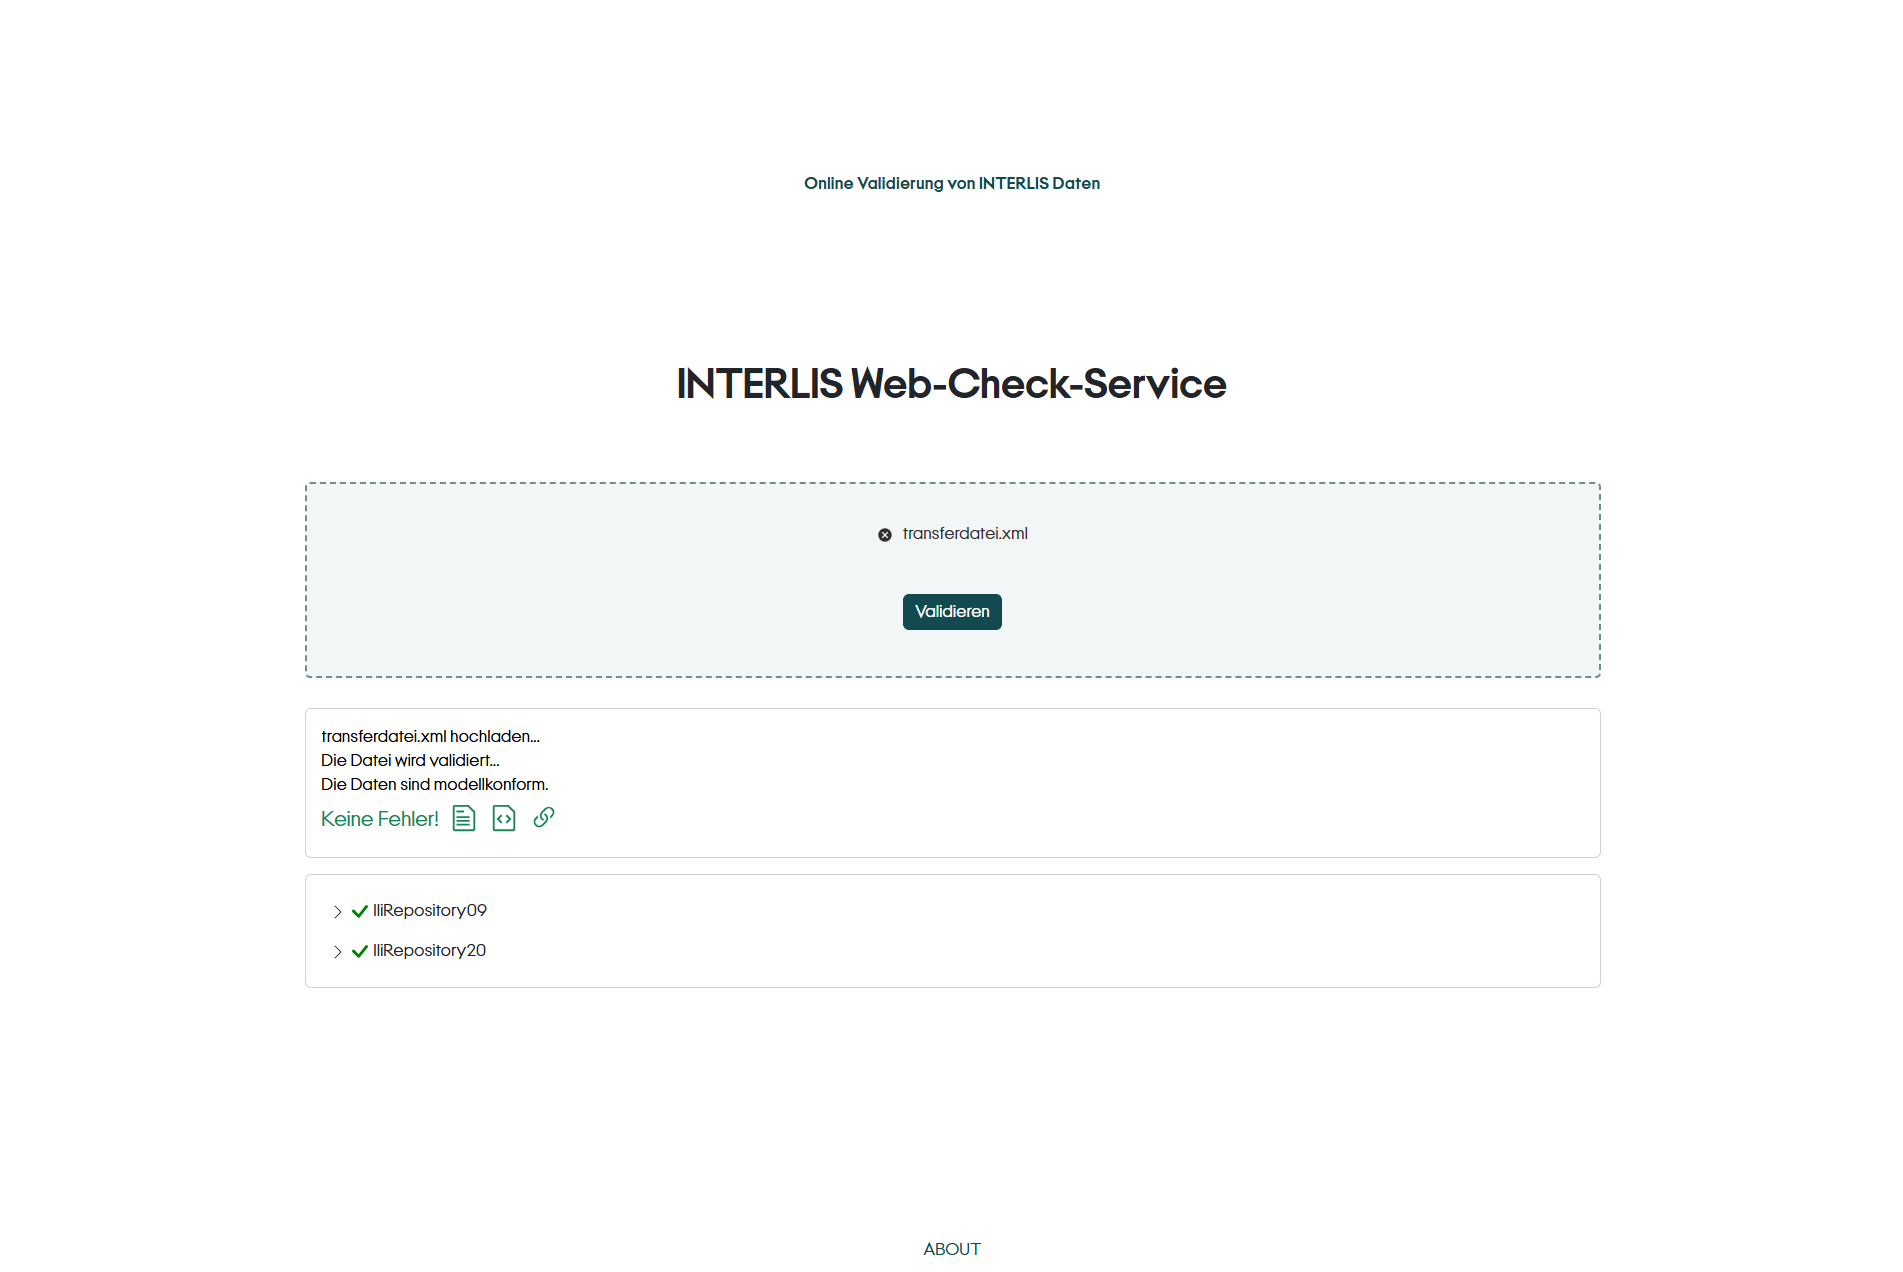
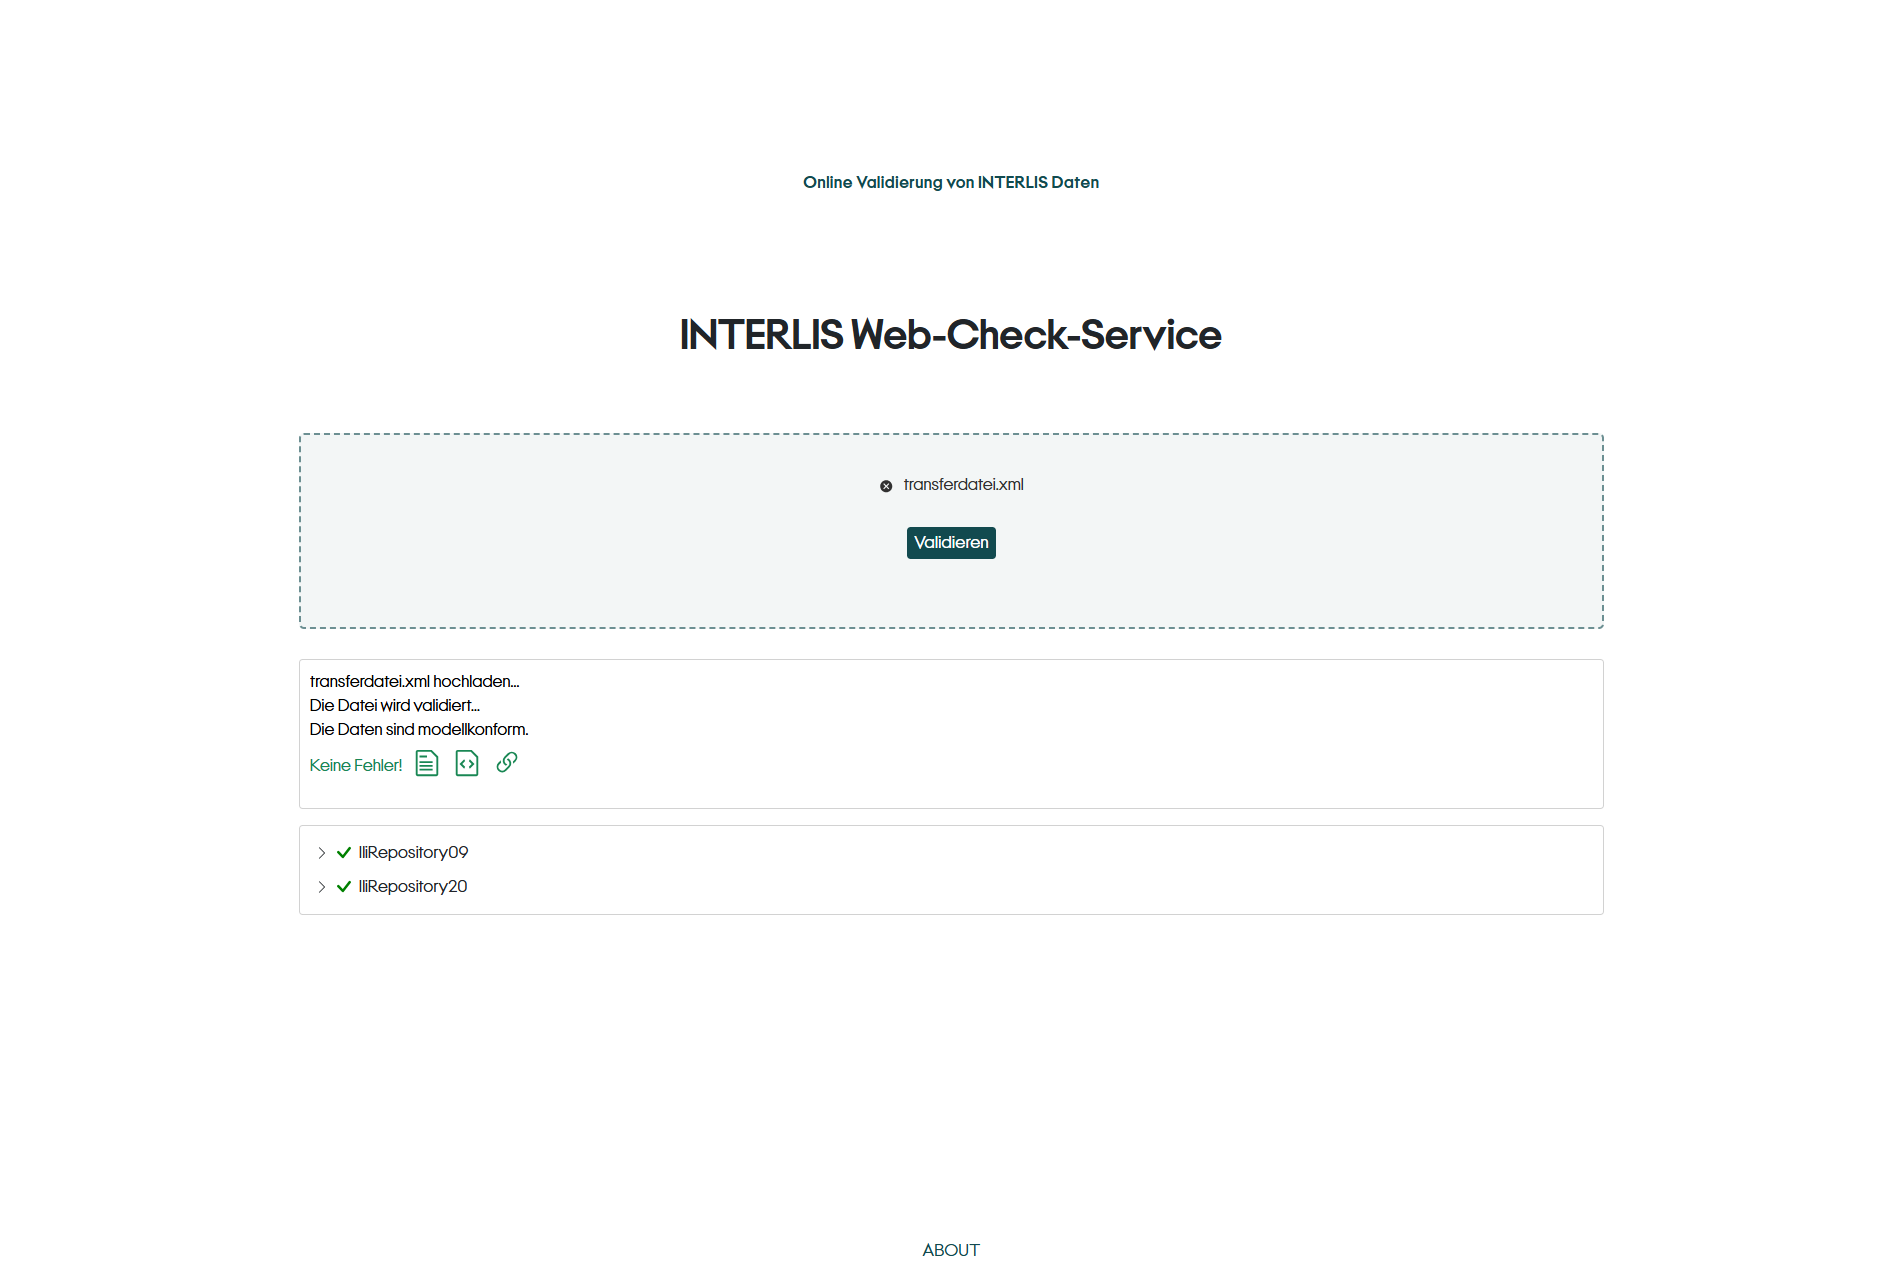
Update font sizes

diff --git a/src/ILICheck.Web/ClientApp/src/app.css b/src/ILICheck.Web/ClientApp/src/app.css
@@ -48,7 +48,7 @@ header {
 }
 
 .app-title {
-  font-size: 40px;
+  font-size: 4rem;
   font-weight: 600;
   padding: 30px;
 }
@@ -57,7 +57,7 @@ header {
   color: rgb(18, 74, 79);
   font-weight: 600;
   letter-spacing: 0.05em;
-  font-size: 16px;
+  font-size: 1.6rem;
   margin-bottom: 4rem;
 }
 
@@ -73,6 +73,11 @@ header {
   margin-top: 30px;
   max-width: 95vw;
   min-height: 150px;
+  font-size: 1.6rem;
+}
+
+.status {
+  font-size: 1.6rem;
 }
 
 .card-body {
@@ -114,6 +119,7 @@ header {
 
 .log-entry > .title {
   word-break: break-word;
+  font-size: 1.6rem;
 }
 
 .log-entry-container {
@@ -126,7 +132,7 @@ header {
 .carousel {
   color: rgb(111, 111, 111);
   width: 100%;
-  font-size: 18px;
+  font-size: 1.8rem;
   margin-bottom: 1rem;
 }
 
@@ -171,11 +177,35 @@ input {
 }
 
 .nutzungsbestimmungen-input {
-  font-size: 14px;
+  font-size: 1.45rem;
+}
+
+.terms-of-use {
+  margin: 8px;
+  margin-left: 35px;
+}
+
+.terms-of-use button {
+  color: rgb(18, 74, 79);
+  text-decoration: none;
+  font-size: 1.45rem;
+  font-weight: 600;
+  letter-spacing: 0.05em;
+  padding: unset;
+  margin: unset;
+  vertical-align: unset;
+}
+
+.terms-of-use button:hover {
+  color: rgb(63, 97, 100);
+}
+
+.terms-of-use input {
+  margin-right: 8px;
 }
 
 .drop-icon {
-  font-size: 35px;
+  font-size: 3.5rem;
 }
 
 .spinner {
@@ -201,10 +231,10 @@ input {
   .dropzone {
     min-height: 12vh !important;
     margin-top: 3vh;
-    font-size: 16px;
+    font-size: 1.6rem;
   }
   .carousel {
-    font-size: 20px;
+    font-size: 2rem;
   }
   .vendor-logo {
     max-height: 70px;
@@ -223,10 +253,10 @@ input {
   .dropzone {
     min-height: 12vh !important;
     margin-top: 3vh;
-    font-size: 16px;
+    font-size: 1.6rem;
   }
   .carousel {
-    font-size: 18px;
+    font-size: 1.8rem;
   }
   .vendor-logo {
     margin-left: 2rem;
@@ -245,10 +275,10 @@ input {
   .dropzone {
     min-height: 10vh !important;
     margin-top: 1vh;
-    font-size: 14px;
+    font-size: 1.4rem;
   }
   .carousel {
-    font-size: 14px;
+    font-size: 1.4rem;
   }
   .app-logo {
     max-height: 100px;
@@ -264,7 +294,7 @@ input {
 
 .btn {
   letter-spacing: 0.05em;
-  font-size: 16px;
+  font-size: 1.6rem;
 }
 
 .check-button {
@@ -294,7 +324,7 @@ input {
 }
 
 .download-icon {
-  font-size: 30px;
+  font-size: 3rem;
   margin-left: 10px;
 }
 
@@ -320,7 +350,7 @@ input {
 }
 
 .icon-tooltip .icon-tooltip-text {
-  font-size: 0.8rem;
+  font-size: 1rem;
   visibility: hidden;
   width: 260px;
   background-color: rgb(85, 85, 85);
@@ -367,7 +397,7 @@ footer {
 
 .footer-button.btn-link {
   color: rgb(18, 74, 79);
-  font-size: 16px;
+  font-size: 1.6rem;
   border: none;
   text-decoration-line: none;
 }
@@ -380,7 +410,6 @@ footer {
 
 .modal {
   color: black;
-  font-size: 14px;
   text-align: left;
 }
 
@@ -394,7 +423,11 @@ footer {
 
 .modal-content h3 {
   padding-top: 0.25em;
-  font-size: 16px;
+  font-size: 1.6rem;
+}
+
+.modal-content p, li, span {
+  font-size: 1.45rem;
 }
 
 .modal .btn {
@@ -405,30 +438,6 @@ footer {
 .modal .btn:hover {
   background-color: rgb(18, 74, 79);
   color: white;
-}
-
-.terms-of-use {
-  margin: 8px;
-  margin-left: 35px;
-}
-
-.terms-of-use button {
-  color: rgb(18, 74, 79);
-  text-decoration: none;
-  font-size: 14px;
-  font-weight: 600;
-  letter-spacing: 0.05em;
-  padding: unset;
-  margin: unset;
-  vertical-align: unset;
-}
-
-.terms-of-use button:hover {
-  color: rgb(63, 97, 100);
-}
-
-.terms-of-use input {
-  margin-right: 8px;
 }
 
 .about-licenses p {
@@ -466,16 +475,19 @@ footer {
   flex-shrink: 0;
   padding-left: 15px;
   padding-right: 25px;
+  margin-top: 10px;
 }
 
 .banner p {
-  font-size: 18px;
+  font-size: 1.8rem;
+  margin-top: 10px;
 }
 
 .banner .close-icon {
   margin-left: 20px;
   margin-right: 15px;
   cursor: pointer;
+  font-size: 2.5rem;
 }
 
 @keyframes fadeInOpacity {

diff --git a/src/ILICheck.Web/ClientApp/src/index.css b/src/ILICheck.Web/ClientApp/src/index.css
@@ -1,3 +1,8 @@
+/*setting the font size of the root element to 62.5% when using rem units is to make it easier to calculate font sizes in rem units. 62.5% of the default font size (which is typically 16px) is 10px. This means that 1rem is equal to 10px, making it easier to calculate font sizes in rem units.*/
+:root {
+  font-size: 62.5%;
+}
+
 body {
   letter-spacing: 0.05em;
   font-family: "NeoGeo", sans-serif;
@@ -11,31 +16,31 @@ h1, h2, h3, h4, h5, h6 {
 }
 
 h1 {
-  font-size: 28px;
+  font-size: 2.8rem;
 }
 
 h2 {
-  font-size: 24px;
+  font-size: 2.4rem;
 }
 
 h3 {
-  font-size: 20px;
+  font-size: 2rem;
 }
 
 h4 {
-  font-size: 18px;
+  font-size: 1.8rem;
 }
 
 h5 {
-  font-size: 16px;
+  font-size: 1.6rem;
 }
 
 h6 {
-  font-size: 14px;
+  font-size: 1.4rem;
 }
 
-p {
-  font-size: 16px;
+p, li, span {
+  font-size: 1.6rem;
 }
 
 b {

diff --git a/src/ILICheck.Web/ClientApp/src/protokoll.jsx b/src/ILICheck.Web/ClientApp/src/protokoll.jsx
@@ -55,7 +55,7 @@ export const Protokoll = (props) => {
               <div ref={logEndRef} />
             </div>
             {statusData && (
-              <Card.Title className={statusClass}>
+              <Card.Title className={`status ${statusClass}`}>
                 {statusText}
                 <span>
                   {statusData.logUrl && (

diff --git a/src/ILICheck.Web/ClientApp/src/dropzone.jsx b/src/ILICheck.Web/ClientApp/src/dropzone.jsx
@@ -19,7 +19,7 @@ const Container = styled.div`
   align-items: center;
   min-height: 15vh;
   max-width: 95vw;
-  font-size: 20px;
+  font-size: 2rem;
   border-width: 2px;
   border-radius: 5px;
   border-color: ${(props) => getColor(props)};
